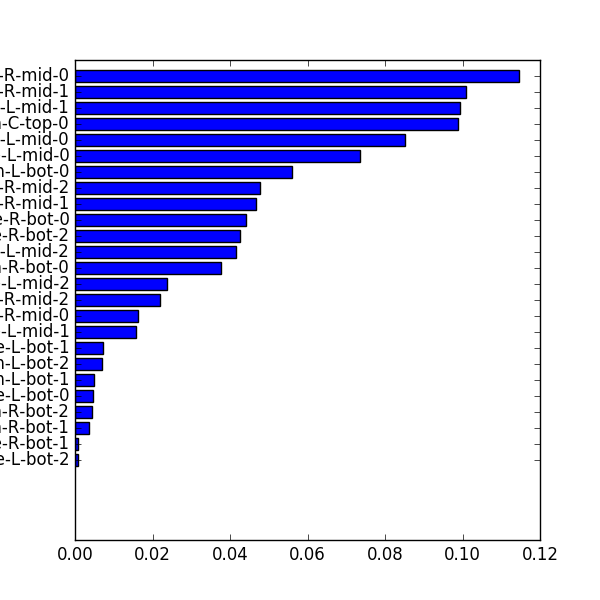
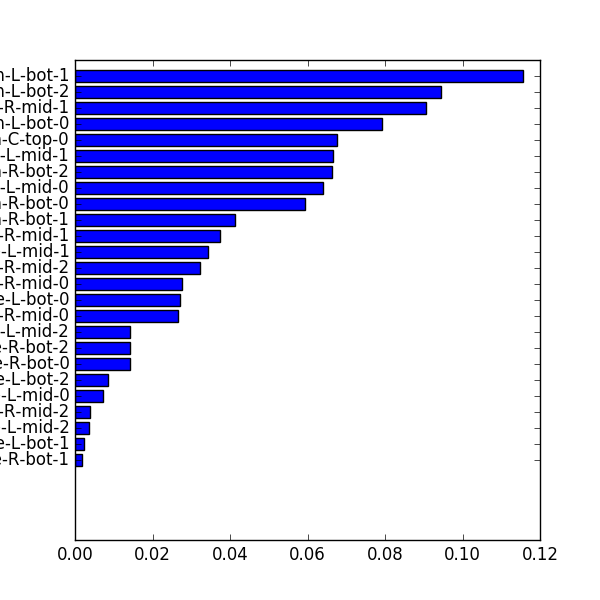
trained for new dataset

Changed region(s): [[0.0, 0.12, 0.15, 0.78], [0.15, 0.12, 0.78, 0.69], [0.84, 0.12, 0.9, 0.15]]

diff --git a/scripts/main.py b/scripts/main.py
@@ -85,7 +85,7 @@ class CharacterEstimatate():
 
         # Dataset load ----->>>
         try:
-            self.df = pd.read_csv( self.DATASET_FILENAME, names=col.COLUMNS)
+            self.df = pd.read_csv( self.DATASET_URL + '/' + self.DATASET_FILENAME, names=col.COLUMNS)
             rospy.loginfo("Load csv file")
         except IOError:
             self.df = pd.DataFrame( columns=col.COLUMNS)
@@ -167,6 +167,11 @@ class CharacterEstimatate():
         ''' 
         # Get data label --->
         if self.isRecording == False:
+            print("\007")
+            print("Please enter the label --->>>")
+            print("Please enter the label --->>>")
+            print("Please enter the label --->>>")
+            print("Please enter the label --->>>")
             print("Please enter the label --->>>")
             self.label = input()
             print("Recording start after some second latter")

diff --git a/scripts/character.py b/scripts/character.py
@@ -2,14 +2,18 @@
 # -*- coding: utf-8 -*-
 
 CHARACTER_NAME = [
-        "Dio",
-        "kira1",
-        "kira2"
+        "0",
+        "1",
+        "2",
+        "3",
+        "4"
         ]
 CHARACTER_PICTURE = [
             {"filename":"0.png", "x":-100, "y":0, "size":0.2},
             {"filename":"1.png", "x":-100, "y":0, "size":0.6},
             {"filename":"1.png", "x":-100, "y":0, "size":0.6},
+            {"filename":"1.png", "x":-100, "y":0, "size":0.6},
+            {"filename":"0.png", "x":-100, "y":0, "size":0.2},
         ]
         #"Leone Abbacchio",
         #"Narancia Ghirga",
